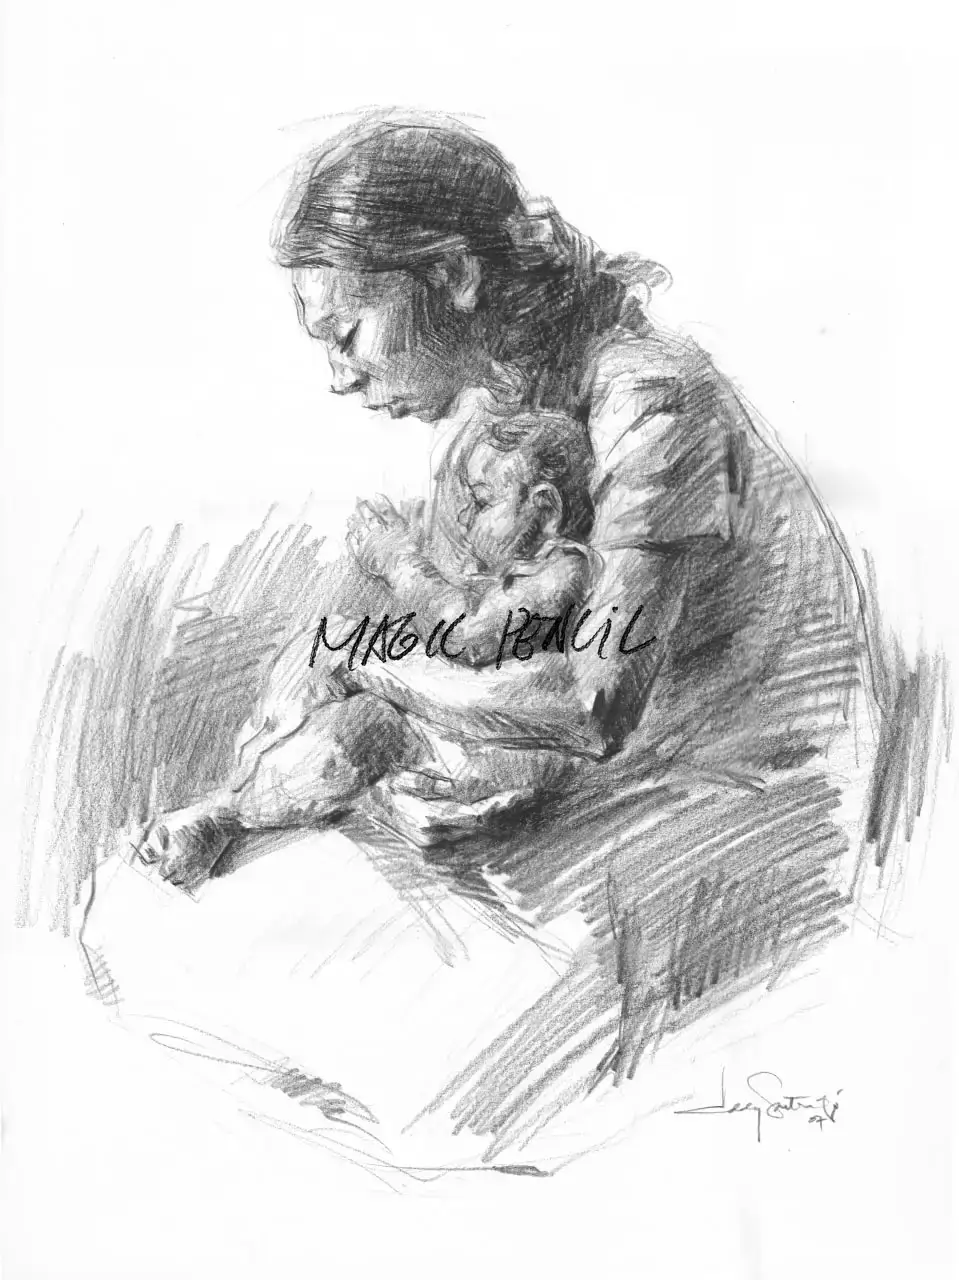
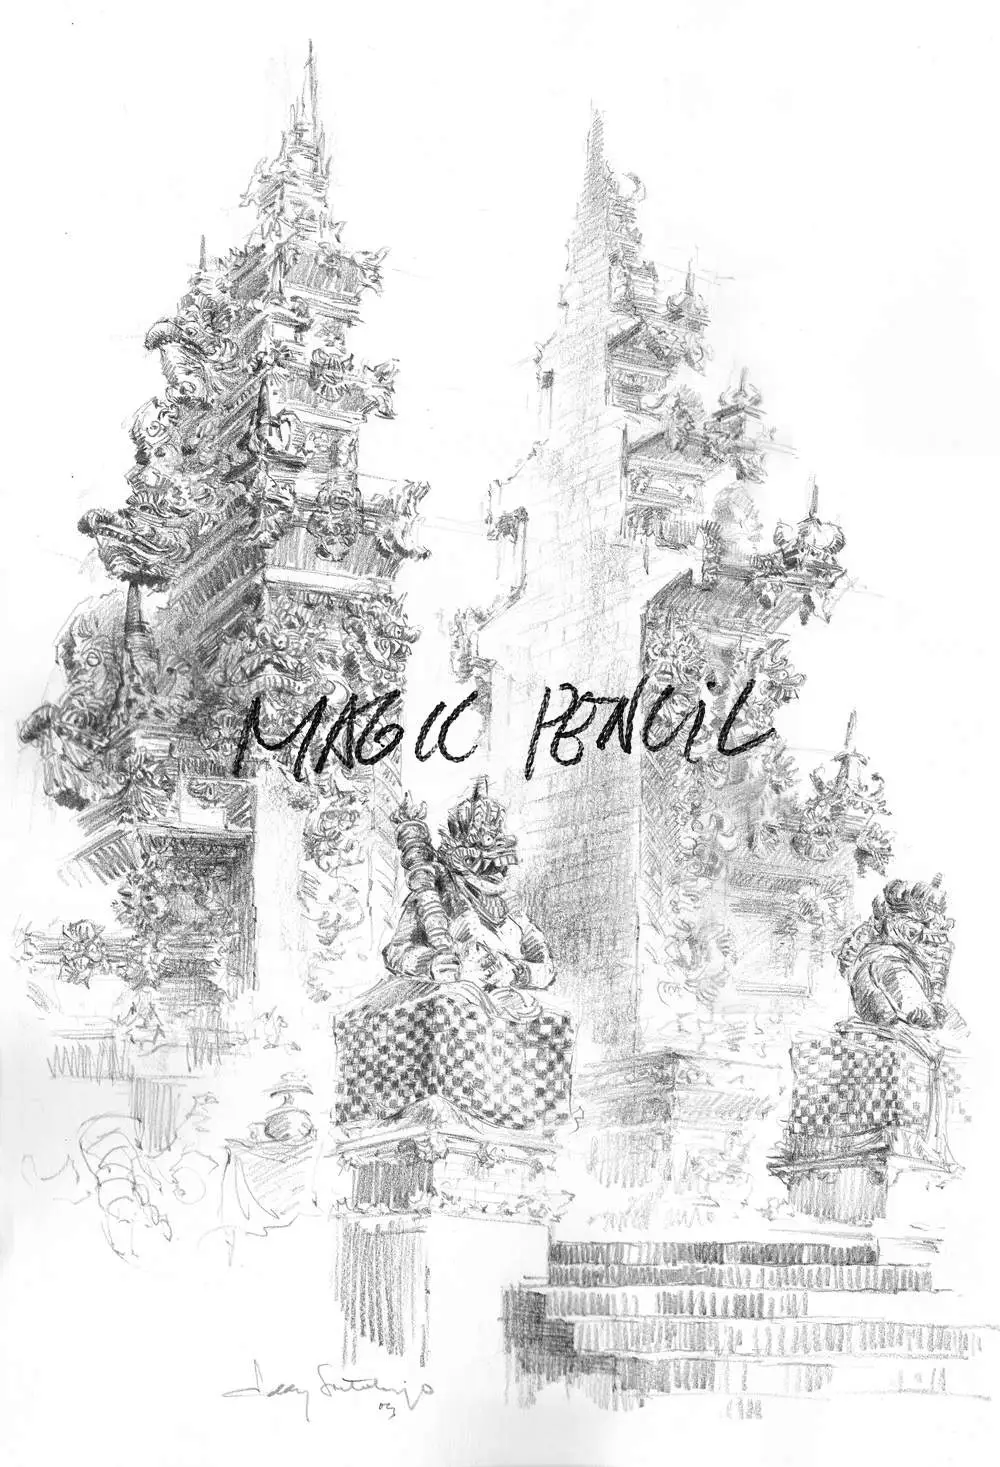
slide-4: new image with watermark multiply

diff --git a/scripts/process-slide.js b/scripts/process-slide.js
@@ -1,0 +1,108 @@
+/**
+ * Proses slide gambar: resize, webp, watermark multiply
+ * 
+ * Usage: node scripts/process-slide.js
+ * Input:
+ *   - public/images/_temp_slide_resized.jpg (gambar mentah)
+ *   - public/images/_temp_watermark.png (watermark)
+ * Output:
+ *   - public/images/slide-4.webp
+ */
+
+const { Jimp } = require("jimp");
+const path = require("path");
+
+const MAX_WIDTH = 1000;
+const QUALITY = 65;
+
+async function main() {
+  const baseDir = path.join(__dirname, "..", "public", "images");
+  const inputPath = path.join(baseDir, "_temp_slide_resized.jpg");
+  const wmPath = path.join(baseDir, "_temp_watermark.png");
+  const outputPath = path.join(baseDir, "_temp_slide_watermarked.jpg");
+
+  // 1. Load background image
+  console.log("📷 Loading background...");
+  const bg = await Jimp.read(inputPath);
+
+  // 2. Resize to max 1000px width
+  if (bg.bitmap.width > MAX_WIDTH) {
+    bg.resize({ w: MAX_WIDTH });
+    console.log(`  → Resized to ${bg.bitmap.width}x${bg.bitmap.height}`);
+  } else {
+    console.log(`  → Size OK: ${bg.bitmap.width}x${bg.bitmap.height}`);
+  }
+
+  const bgW = bg.bitmap.width;
+  const bgH = bg.bitmap.height;
+
+  // 3. Load watermark
+  console.log("🖊️ Loading watermark...");
+  const wm = await Jimp.read(wmPath);
+  const wmW = wm.bitmap.width;
+  const wmH = wm.bitmap.height;
+  console.log(`  → Watermark size: ${wmW}x${wmH}`);
+
+  // 4. Scale watermark to fit background nicely (max 60% of background width)
+  const targetWmW = Math.min(Math.round(bgW * 0.6), wmW);
+  const scale = targetWmW / wmW;
+  const targetWmH = Math.round(wmH * scale);
+  wm.resize({ w: targetWmW, h: targetWmH });
+  console.log(`  → Watermark scaled to: ${targetWmW}x${targetWmH}`);
+
+  // 5. Apply watermark at center with multiply blend
+  console.log("🎨 Applying watermark (multiply)...");
+  const wmX = Math.round((bgW - targetWmW) / 2);
+  const wmY = Math.round((bgH - targetWmH) / 2);
+
+  // Manual multiply blend pixel by pixel
+  for (let wy = 0; wy < targetWmH; wy++) {
+    for (let wx = 0; wx < targetWmW; wx++) {
+      const bgX = wmX + wx;
+      const bgY = wmY + wy;
+
+      // Skip if outside background bounds
+      if (bgX < 0 || bgX >= bgW || bgY < 0 || bgY >= bgH) continue;
+
+      const wmHex = wm.getPixelColor(wx, wy);
+      const bgHex = bg.getPixelColor(bgX, bgY);
+
+      // Extract RGBA (JIMP stores as hex RRGGBBAA)
+      const wmStr = wmHex.toString(16).padStart(8, "0");
+      const bgStr = bgHex.toString(16).padStart(8, "0");
+
+      const wr = parseInt(wmStr.slice(0, 2), 16);
+      const wg = parseInt(wmStr.slice(2, 4), 16);
+      const wb = parseInt(wmStr.slice(4, 6), 16);
+      const wa = parseInt(wmStr.slice(6, 8), 16);
+
+      const br = parseInt(bgStr.slice(0, 2), 16);
+      const bg_ = parseInt(bgStr.slice(2, 4), 16);
+      const bb = parseInt(bgStr.slice(4, 6), 16);
+
+      // Multiply blend: result = (bg * wm) / 255
+      // If watermark has alpha, blend with alpha
+      const alpha = wa / 255;
+      const invAlpha = 1 - alpha;
+
+      const rr = Math.round((br * wr / 255) * alpha + br * invAlpha);
+      const rg = Math.round((bg_ * wg / 255) * alpha + bg_ * invAlpha);
+      const rb = Math.round((bb * wb / 255) * alpha + bb * invAlpha);
+
+      // Set pixel (JIMP expects RGBA as number)
+      const newHex = (rr << 24) | (rg << 16) | (rb << 8) | 0xff;
+      bg.setPixelColor(newHex >>> 0, bgX, bgY);
+    }
+  }
+
+  // 6. Save as WebP quality 65%
+  console.log(`💾 Saving to slide-4.webp (quality ${QUALITY}%)...`);
+  await bg.write(outputPath, { quality: QUALITY });
+
+  console.log("✅ Done! slide-4.webp siap.");
+}
+
+main().catch((err) => {
+  console.error("❌ Error:", err);
+  process.exit(1);
+});